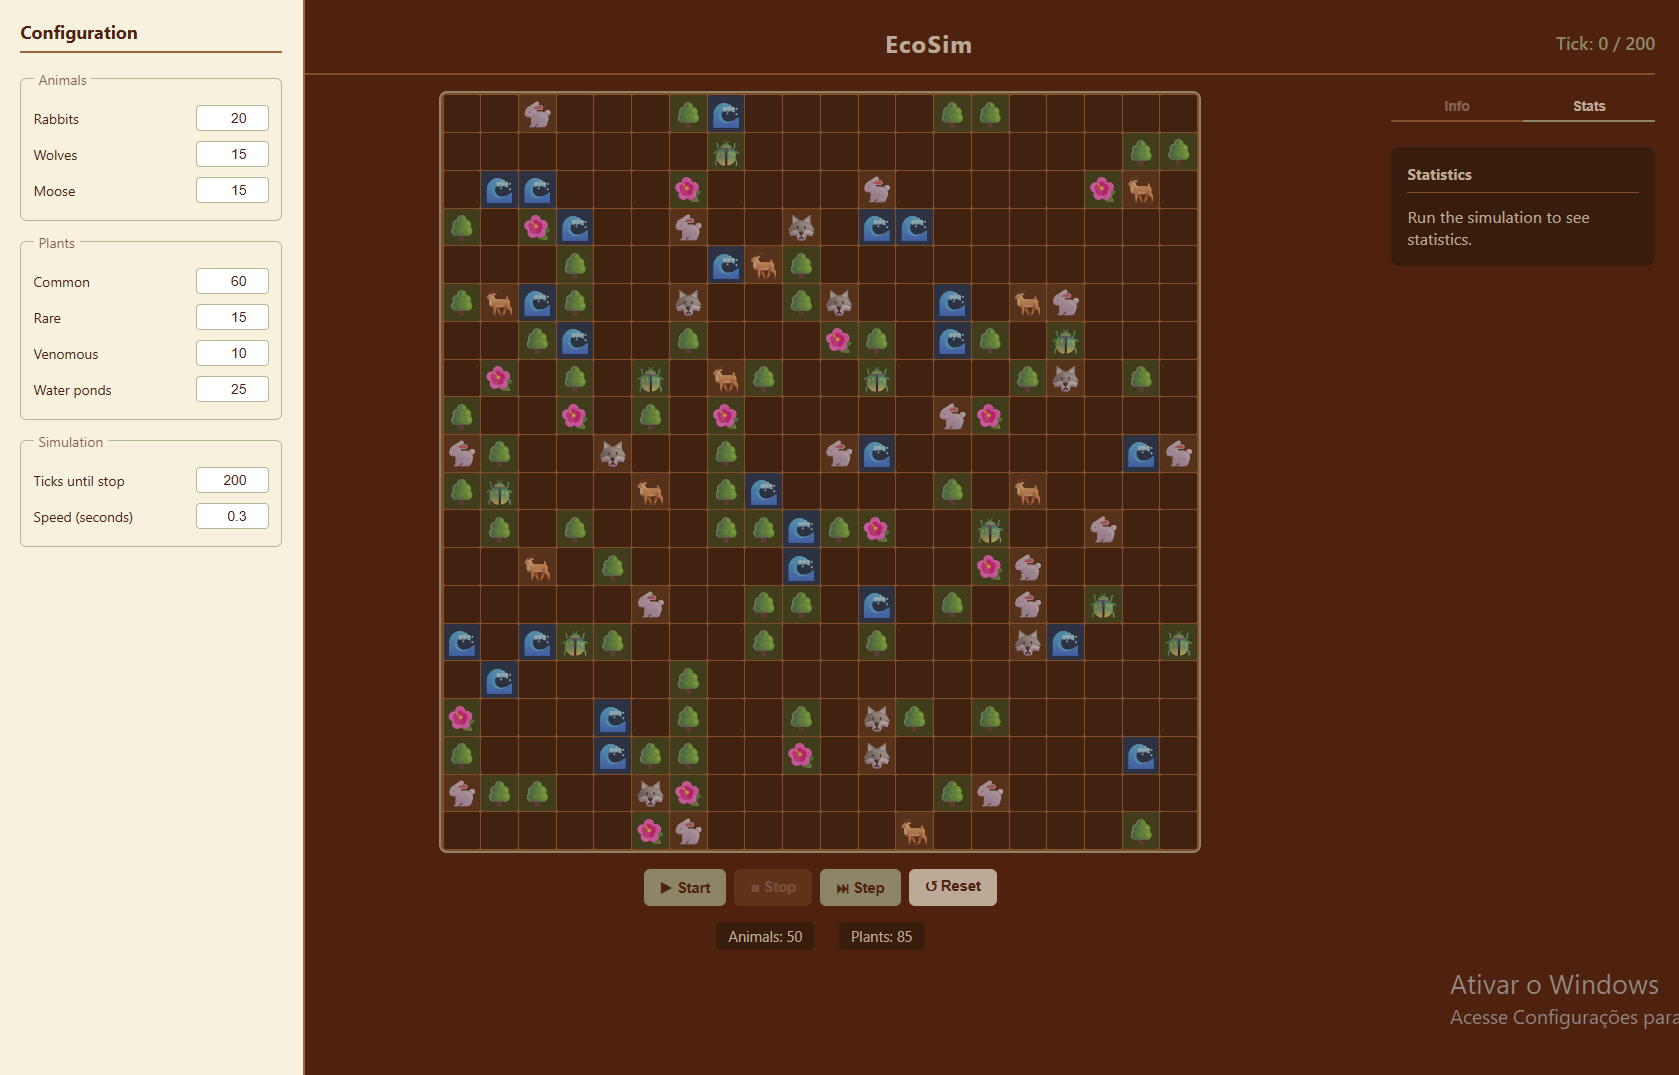
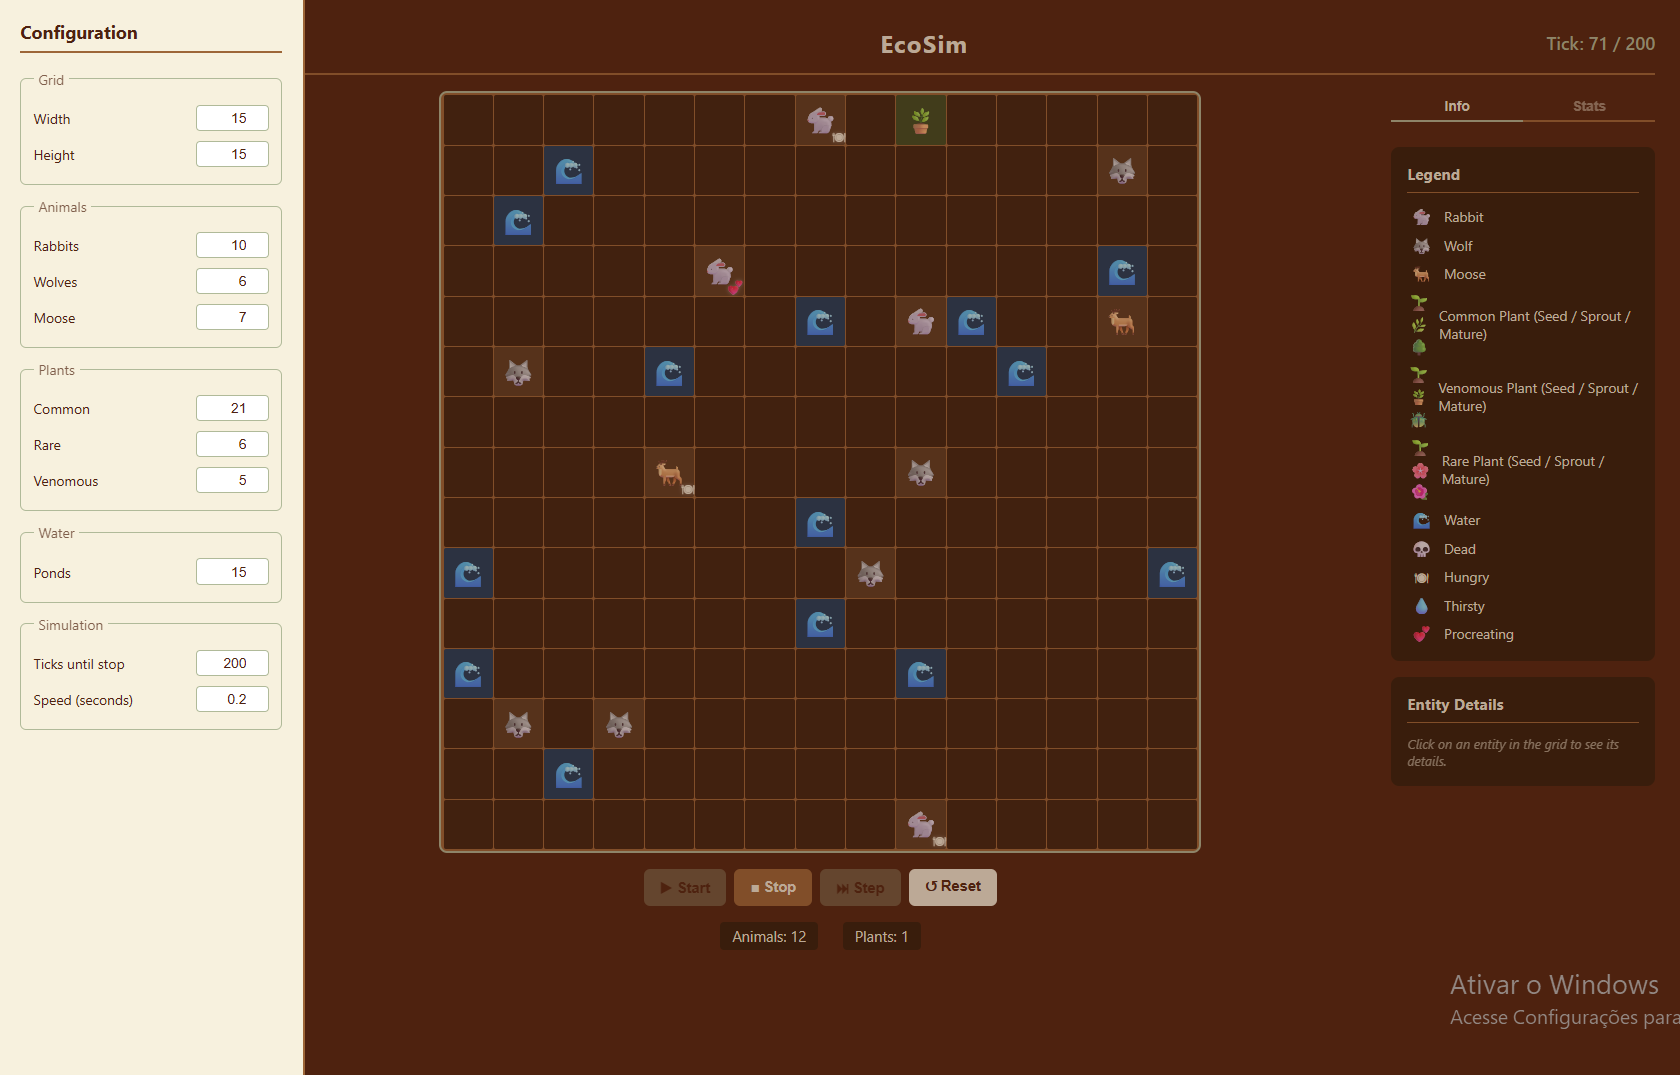
fix: Configuration panel adjusts

diff --git a/ui/components/ConfigMenu.tsx b/ui/components/ConfigMenu.tsx
@@ -1,4 +1,6 @@
 export type SimConfig = {
+  gridWidth: number;
+  gridHeight: number;
   rabbitCount: number;
   wolfCount: number;
   mooseCount: number;
@@ -11,6 +13,8 @@ export type SimConfig = {
 };
 
 export const DEFAULT_CONFIG: SimConfig = {
+  gridWidth: 20,
+  gridHeight: 20,
   rabbitCount: 5,
   wolfCount: 2,
   mooseCount: 1,
@@ -38,6 +42,8 @@ export default function ConfigMenu({
 
     if (key === "tickSpeed") {
       clamped = Math.max(0.1, Math.round(value * 10) / 10);
+    } else if (key === "gridWidth" || key === "gridHeight") {
+      clamped = Math.max(3, Math.min(50, Math.floor(value)));
     } else if (
       key === "rabbitCount" ||
       key === "wolfCount" ||
@@ -60,6 +66,30 @@ export default function ConfigMenu({
 
       <div className={`config-menu${open ? " config-menu--open" : ""}`}>
         <h2>Configuration</h2>
+
+        <fieldset>
+          <legend>Grid</legend>
+          <label>
+            <span>Width</span>
+            <input
+              type="number"
+              min={3}
+              max={50}
+              value={config.gridWidth}
+              onChange={(e) => set("gridWidth", Number(e.target.value))}
+            />
+          </label>
+          <label>
+            <span>Height</span>
+            <input
+              type="number"
+              min={3}
+              max={50}
+              value={config.gridHeight}
+              onChange={(e) => set("gridHeight", Number(e.target.value))}
+            />
+          </label>
+        </fieldset>
 
         <fieldset>
           <legend>Animals</legend>
@@ -121,8 +151,12 @@ export default function ConfigMenu({
               onChange={(e) => set("venomousPlantCount", Number(e.target.value))}
             />
           </label>
+        </fieldset>
+
+        <fieldset>
+          <legend>Water</legend>
           <label>
-            <span>Water ponds</span>
+            <span>Ponds</span>
             <input
               type="number"
               min={0}

diff --git a/ui/App.tsx b/ui/App.tsx
@@ -28,7 +28,7 @@ type EntityInfo = {
 };
 
 function createInitialWorld(config: SimConfig): World {
-  const world = new World(20, 20);
+  const world = new World(config.gridWidth, config.gridHeight);
 
   const entities: (Animal | Plant)[] = [];
 